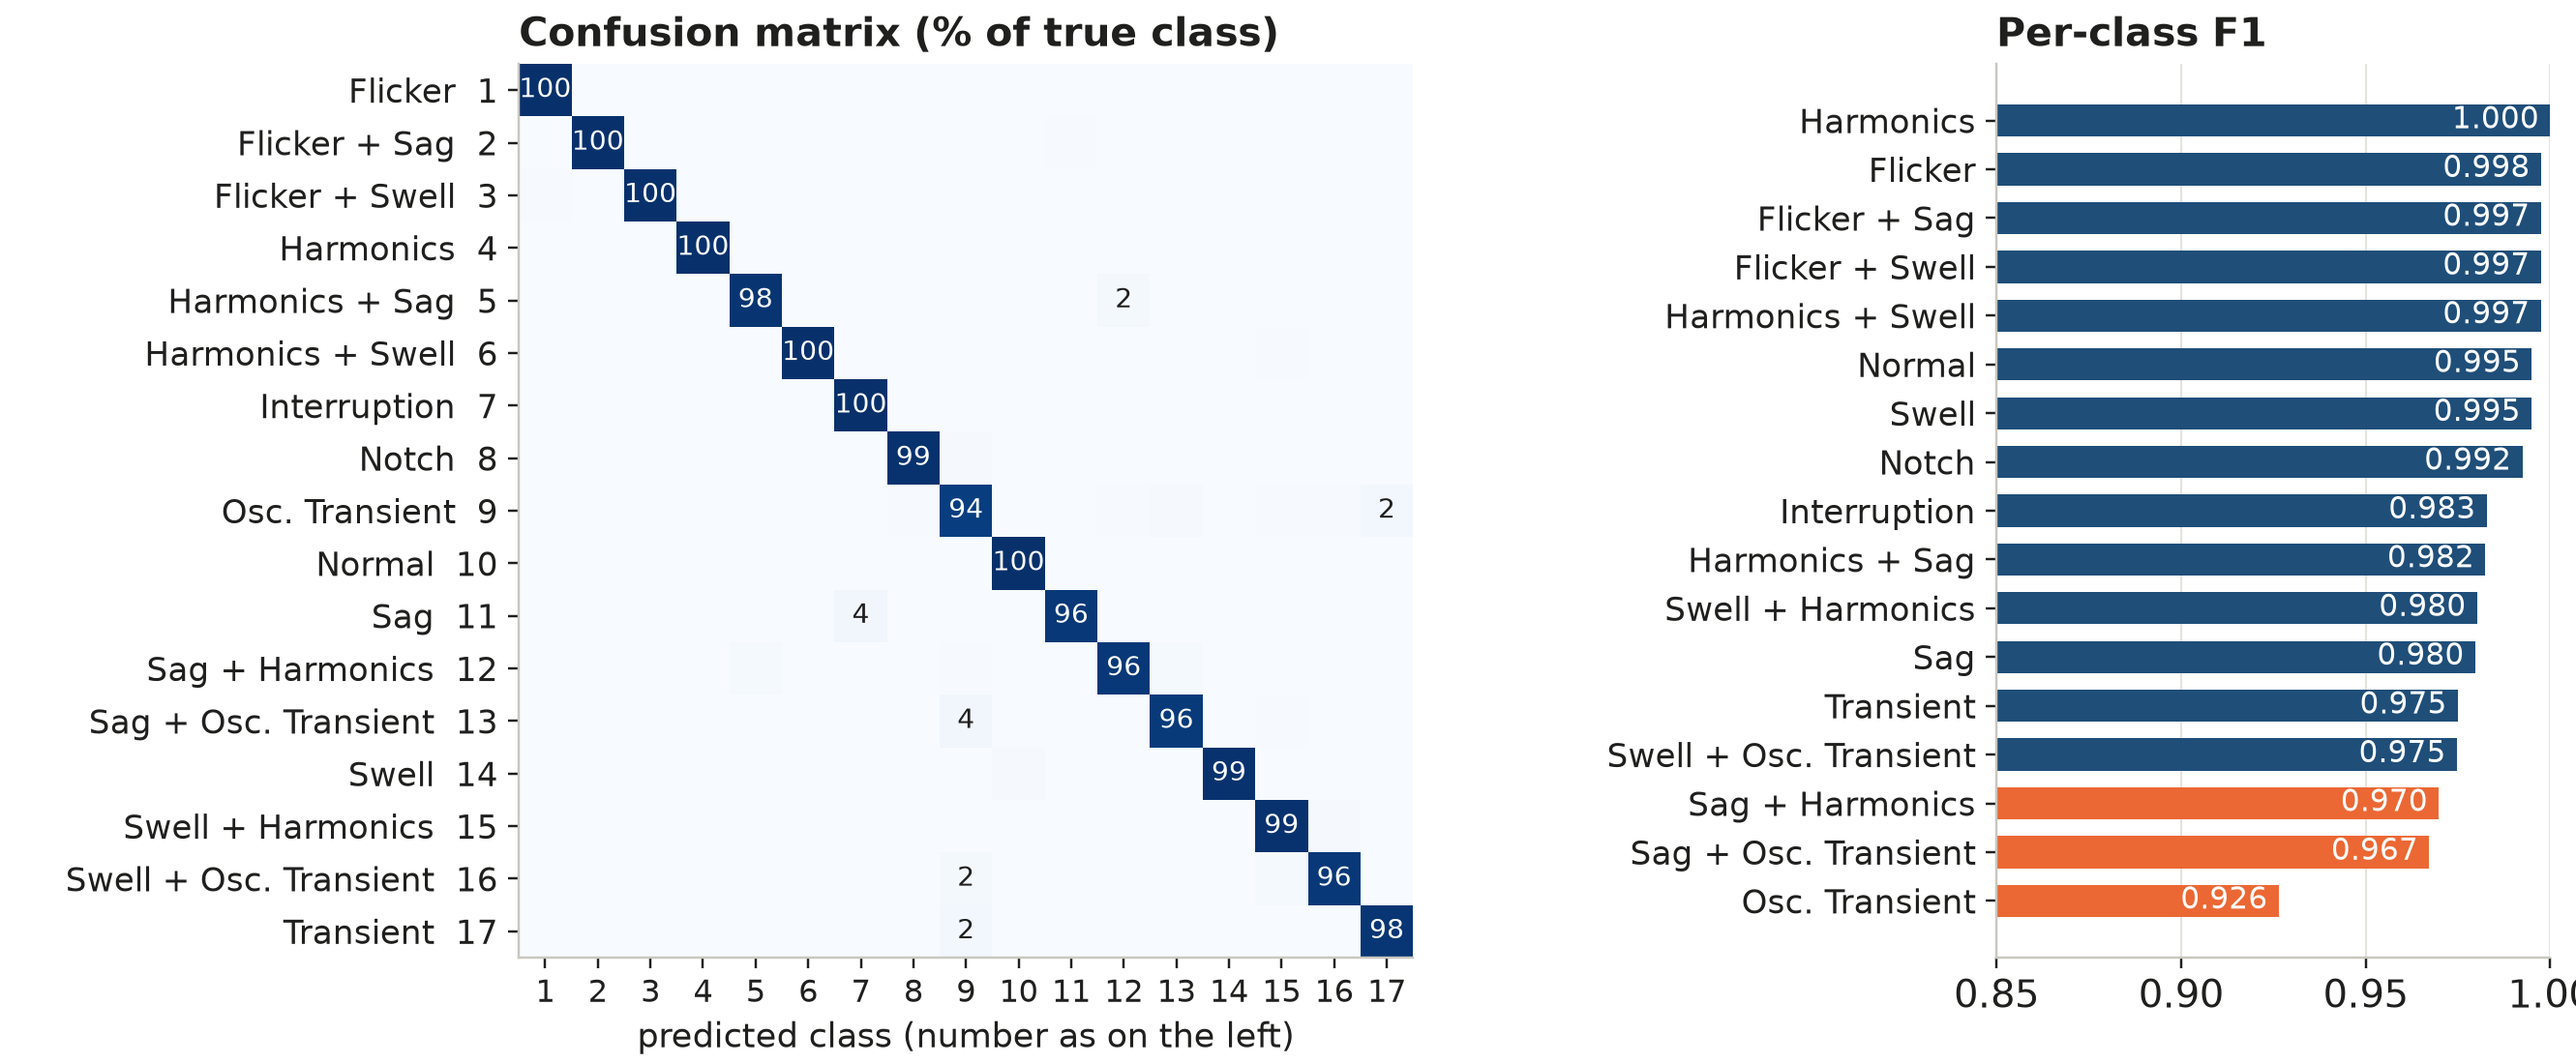
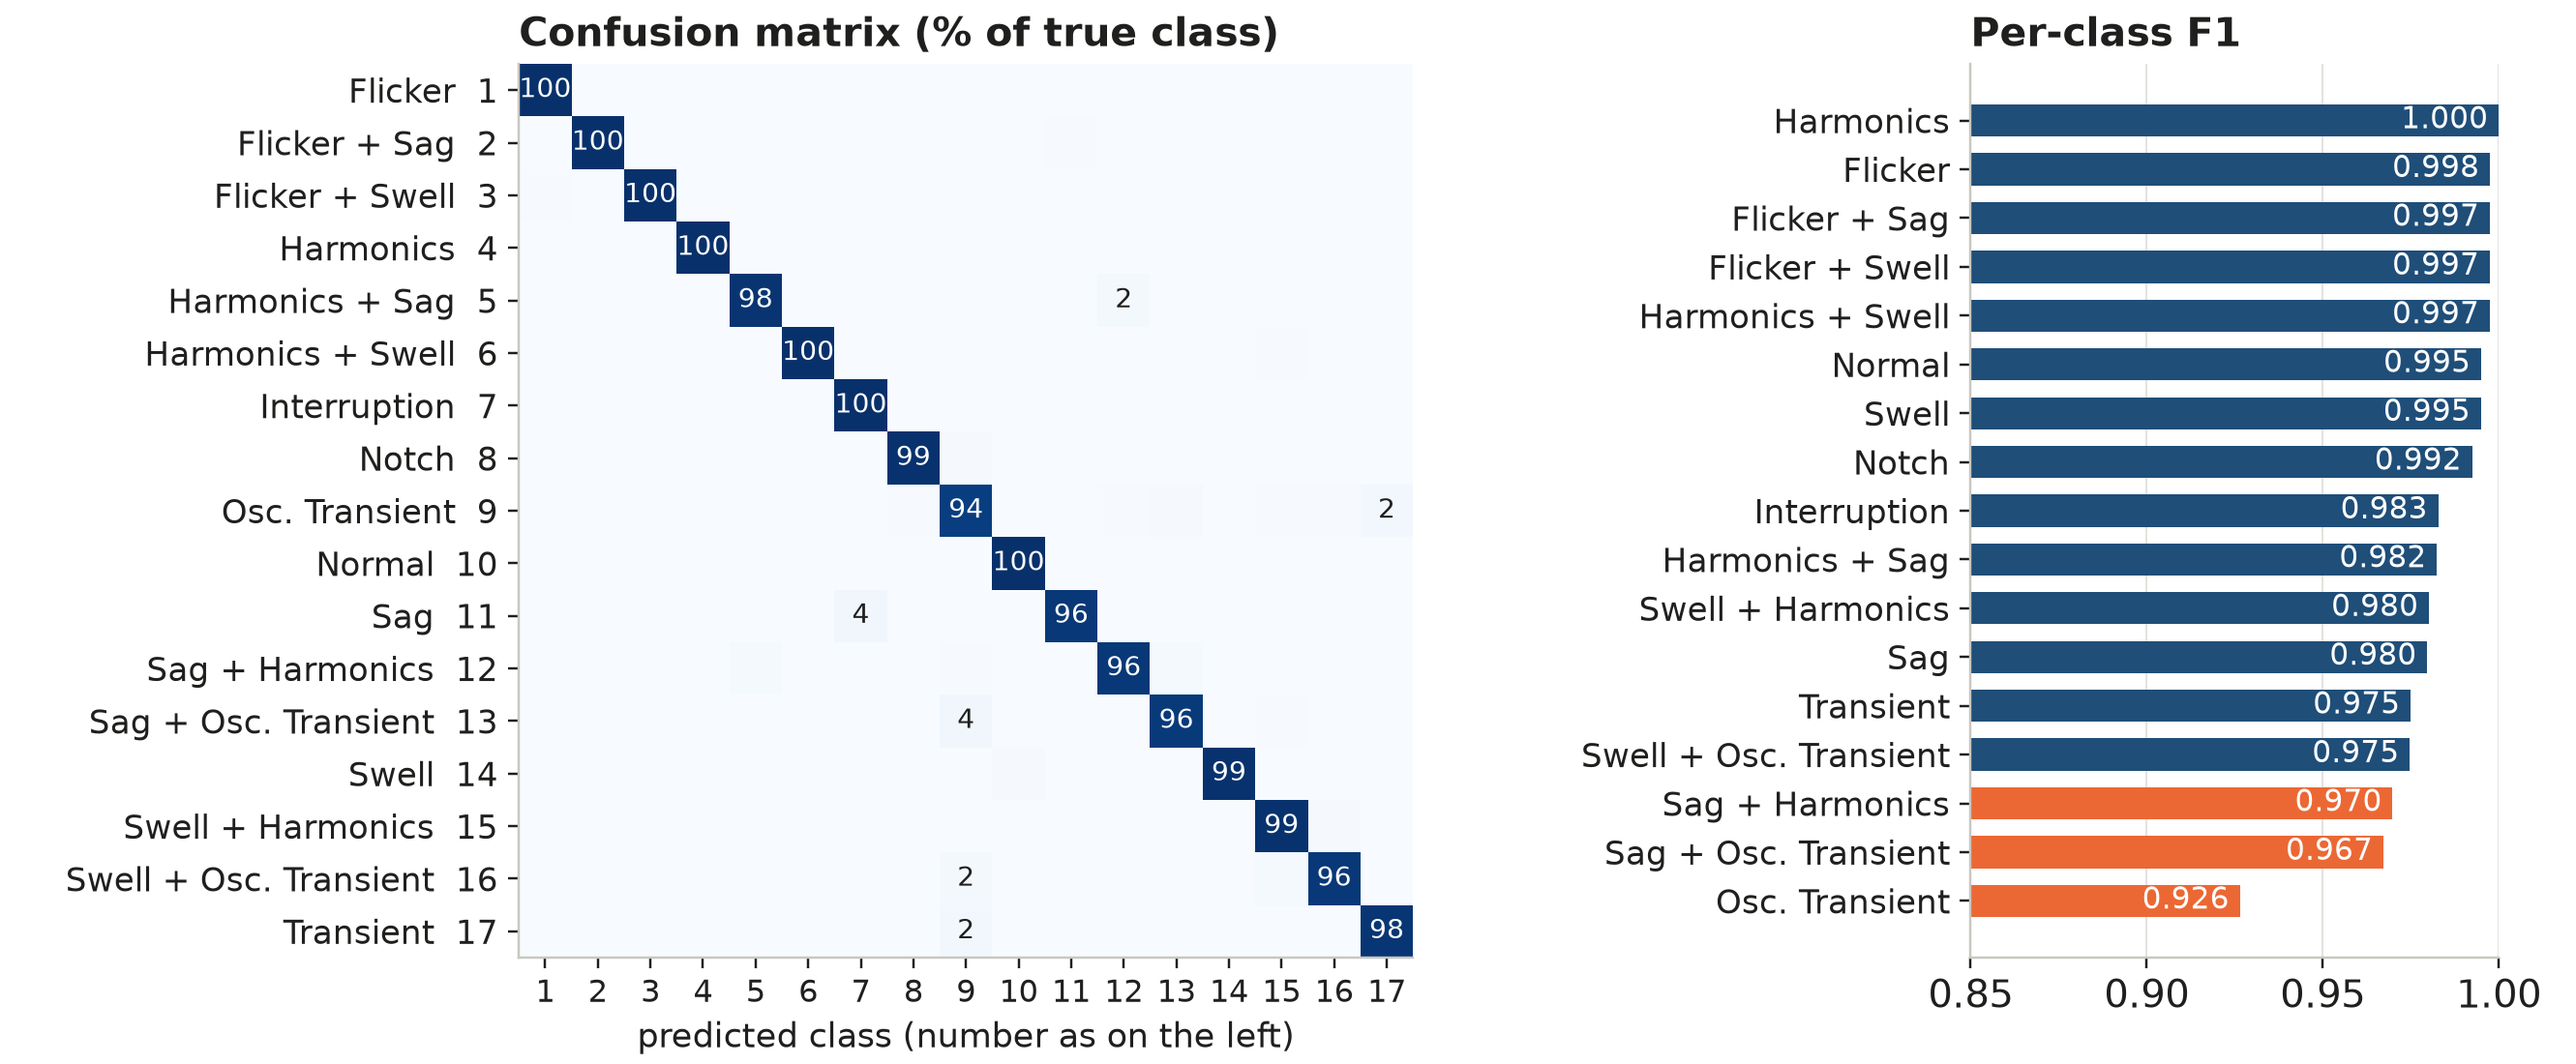
Slide figures: add PQD-16c confusion matrix and per-class F1
confusion_and_f1 now takes the dataset; the PQD-16c version marks the
Sag / Interruption label-noise family in orange. Also keeps the 1.00 tick
on the per-class F1 axis inside the image.

diff --git a/src/make_slide_figures.py b/src/make_slide_figures.py
@@ -270,18 +270,22 @@ def predictions(ds):
     return y["test"], p, names
 
 
-def confusion_and_f1():
-    y, p, names = predictions("xpqrs")
+CONFUSABLE = {"Interruption", "Interruption+Harmonics", "Sag", "Sag+Harmonics"}  # PQD-16c label-noise family
+
+
+def confusion_and_f1(ds="xpqrs"):
+    y, p, names = predictions(ds)
     short = [nice(n) for n in names]
+    n = len(names)
     cm = confusion_matrix(y, p, normalize="true")
     fig = plt.figure(figsize=(FIG_W, FIG_H))
     ax = fig.add_axes((0.175, 0.1, 0.4, 0.84))
     ax.imshow(cm, cmap="Blues", vmin=0, vmax=1)
     ax.grid(False)
-    ax.set_xticks(range(17), [str(k + 1) for k in range(17)], fontsize=10.5)
-    ax.set_yticks(range(17), [f"{s}  {k + 1}" for k, s in enumerate(short)], fontsize=11)
-    for i in range(17):
-        for j in range(17):
+    ax.set_xticks(range(n), [str(k + 1) for k in range(n)], fontsize=10.5)
+    ax.set_yticks(range(n), [f"{s}  {k + 1}" for k, s in enumerate(short)], fontsize=11)
+    for i in range(n):
+        for j in range(n):
             if cm[i, j] >= 0.02:
                 ax.text(j, i, f"{cm[i, j]*100:.0f}", ha="center", va="center", fontsize=9,
                         color="white" if cm[i, j] > 0.6 else INK)
@@ -289,16 +293,18 @@ def confusion_and_f1():
     ax.set_xlabel("predicted class (number as on the left)", fontsize=11.5)
     f1 = f1_score(y, p, average=None)
     o = np.argsort(f1)
-    ax2 = fig.add_axes((0.775, 0.1, 0.215, 0.84))
-    ax2.barh([short[i] for i in o], f1[o], color=[ORANGE if f1[i] < 0.97 else NAVY for i in o], height=0.66)
+    ax2 = fig.add_axes((0.765, 0.1, 0.205, 0.84))
+    weak = [names[i] in CONFUSABLE if ds == "pqd16" else f1[i] < 0.97 for i in range(n)]
+    ax2.barh([short[i] for i in o], f1[o], color=[ORANGE if weak[i] else NAVY for i in o], height=0.66)
+    lo = 0.85 if ds == "xpqrs" else 0.0
     for k, i in enumerate(o):
-        ax2.text(f1[i] - 0.003, k, f"{f1[i]:.3f}", va="center", ha="right", fontsize=10, color="white")
-    ax2.set_xlim(0.85, 1.0)
-    ax2.set_xticks([0.85, 0.9, 0.95, 1.0])
+        ax2.text(f1[i] - (1 - lo) * 0.02, k, f"{f1[i]:.3f}", va="center", ha="right", fontsize=10, color="white")
+    ax2.set_xlim(lo, 1.0)
+    ax2.set_xticks([0.85, 0.9, 0.95, 1.0] if ds == "xpqrs" else [0, 0.25, 0.5, 0.75, 1.0])
     ax2.tick_params(axis="y", labelsize=11)
     ax2.grid(axis="y", visible=False)
     ax2.set_title("Per-class F1", fontsize=13.5)
-    save(fig, "confusion_f1.png")
+    save(fig, "confusion_f1.png" if ds == "xpqrs" else f"confusion_f1_{ds}.png")
 
 
 def label_noise():
@@ -428,5 +434,6 @@ if __name__ == "__main__":
     for fn in (waveforms, preprocess, architecture, xai_flow, model_comparison, confusion_and_f1,
                label_noise, faithfulness, explanations):
         fn()
+    confusion_and_f1("pqd16")
     if a.gui:
         gui_zoom(a.gui)
